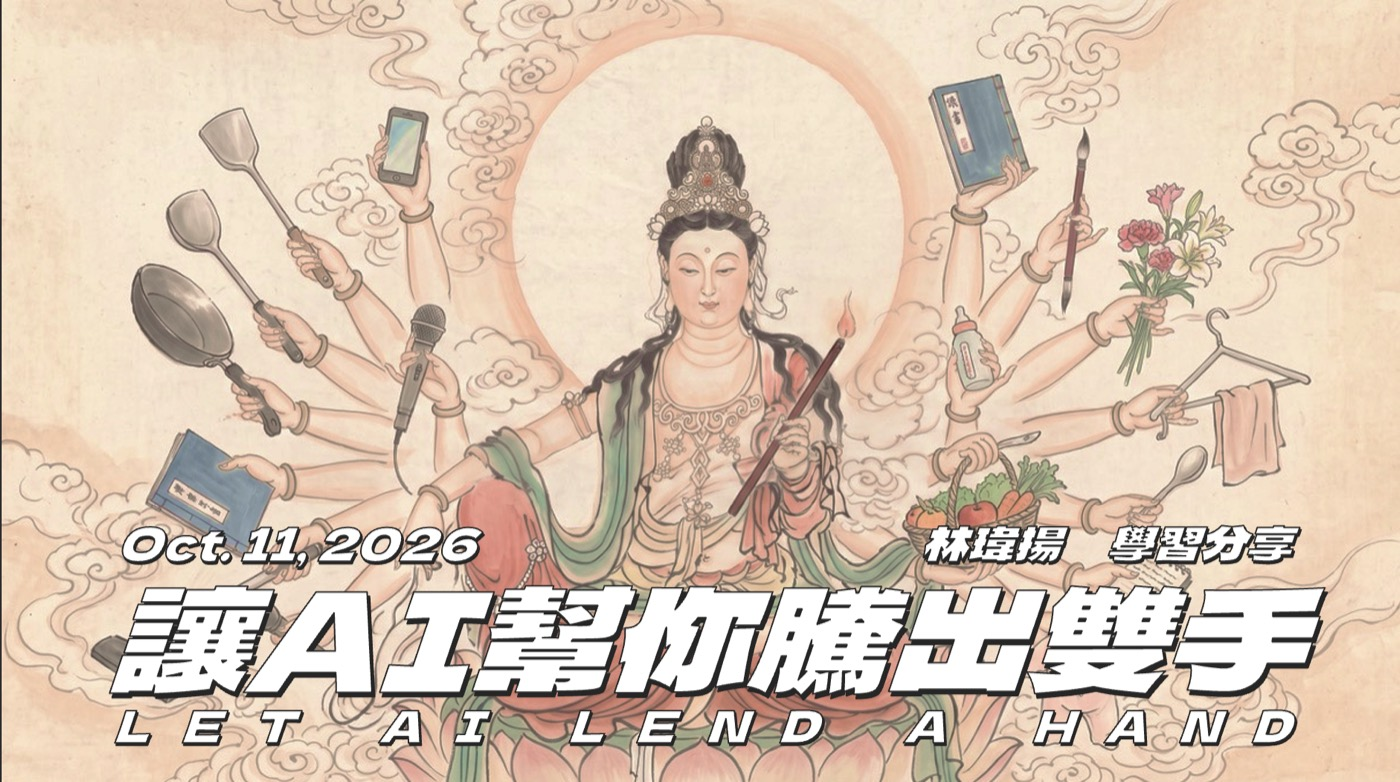
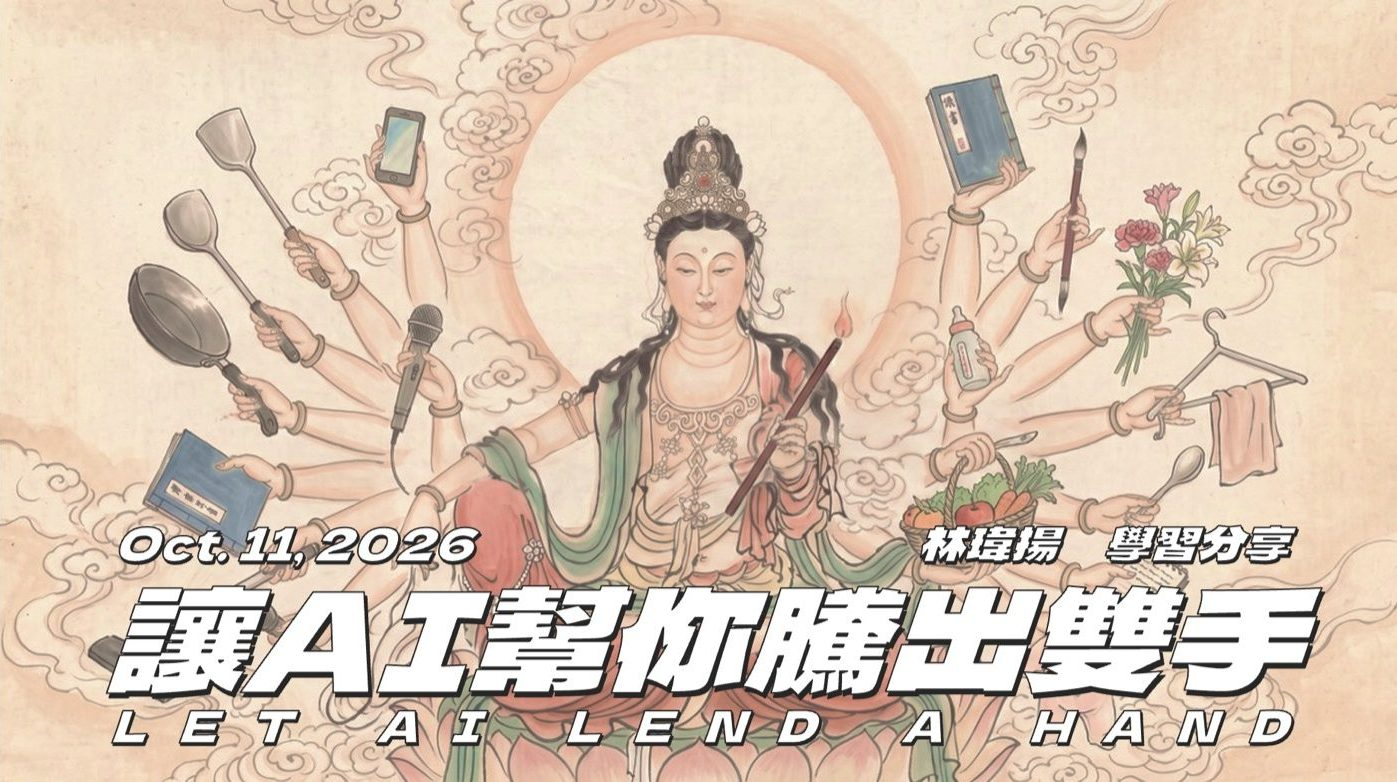
投影頁去掉 header 改深色底(QR 浮動角落)；首頁海報裁掉左側黑邊

diff --git a/index.html b/index.html
@@ -9,7 +9,7 @@
 <link rel="preconnect" href="https://fonts.googleapis.com" />
 <link rel="preconnect" href="https://fonts.gstatic.com" crossorigin />
 <link href="https://fonts.googleapis.com/css2?family=Noto+Sans+TC:wght@400;700;900&family=Roboto+Condensed:ital,wght@0,400;0,700;1,400;1,700&display=swap" rel="stylesheet" />
-<link rel="stylesheet" href="styles.css?v=9" />
+<link rel="stylesheet" href="styles.css?v=10" />
 </head>
 <body>
 
@@ -17,27 +17,16 @@
 
   <!-- ══════════ ① 手機介面（學員） ══════════ -->
   <main id="view-join" hidden>
-    <img class="hero-poster" src="assets/img/hero-poster.jpg?v=9" alt="讓 AI 幫你騰出雙手 · Let AI Lend a Hand（2026/10/11 林瑋揚 學習分享）" />
+    <img class="hero-poster" src="assets/img/hero-poster.jpg?v=10" alt="讓 AI 幫你騰出雙手 · Let AI Lend a Hand（2026/10/11 林瑋揚 學習分享）" />
     <div id="join-body"></div>
   </main>
 
   <!-- ══════════ ② 投影介面（大畫面） ══════════ -->
   <div id="view-screen" hidden>
-    <header class="screen-top">
-      <div class="host-brand">
-        <svg width="54" height="54" viewBox="0 0 120 120" fill="none" aria-hidden="true">
-          <rect x="30" y="26" width="60" height="44" rx="14" fill="#FBF5E8" stroke="#A8803F" stroke-width="3"/>
-          <circle cx="60" cy="46" r="12" fill="#A8803F" stroke="#87682F" stroke-width="3"/><circle cx="60" cy="46" r="4.5" fill="#FBF5E8"/>
-          <line x1="60" y1="26" x2="60" y2="16" stroke="#A8803F" stroke-width="3"/><circle cx="60" cy="14" r="4" fill="#2B2520"/>
-          <rect x="38" y="74" width="44" height="26" rx="9" fill="#FBF5E8" stroke="#A8803F" stroke-width="3"/>
-        </svg>
-        <div class="t"><span id="s-brand-zh" class="title-fx">讓 AI 幫你騰出雙手</span><small id="s-brand-en">Let AI Lend a Hand</small></div>
-      </div>
-      <div class="join-chip" id="s-qrwrap" hidden>
-        <div id="s-qrchip" class="qrchip"></div>
-        <div class="chip-txt"><b>掃碼加入</b><span class="en">Scan to join</span></div>
-      </div>
-    </header>
+    <div class="join-chip" id="s-qrwrap" hidden>
+      <div id="s-qrchip" class="qrchip"></div>
+      <div class="chip-txt"><b>掃碼加入</b><span class="en">Scan to join</span></div>
+    </div>
     <div class="screen-stage" id="s-stage"></div>
     <div class="wall" id="s-wall"></div>
     <div class="qr-overlay" id="s-qr-ov" hidden>
@@ -126,7 +115,7 @@
 <script src="https://www.gstatic.com/firebasejs/10.12.0/firebase-app-compat.js"></script>
 <script src="https://www.gstatic.com/firebasejs/10.12.0/firebase-database-compat.js"></script>
 <script src="https://cdnjs.cloudflare.com/ajax/libs/qrcodejs/1.0.0/qrcode.min.js"></script>
-<script src="firebase-config.js?v=9"></script>
-<script src="app.js?v=9"></script>
+<script src="firebase-config.js?v=10"></script>
+<script src="app.js?v=10"></script>
 </body>
 </html>

diff --git a/app.js b/app.js
@@ -157,8 +157,6 @@
     $("#view-screen").hidden = false; $("#view-host").hidden = true; $("#view-join").hidden = true;
     if (!config) { $("#s-stage").innerHTML = `<div class="idle-stage"><div class="big title-fx outlined">連線中…</div></div>`; return; }
 
-    $("#s-brand-zh").textContent = config.title || "即時回應";
-    $("#s-brand-en").textContent = config.titleEn || "";
     if (!qrChipDone) { makeQR($("#s-qrchip"), 112); qrChipDone = true; }
 
     const idx = activeIdx();
@@ -183,7 +181,7 @@
     if (!slide) { stage.innerHTML = `<div class="idle-stage big-qr"><div class="big title-fx outlined">${esc(config.title || "準備開始")}</div><div class="big-qr-box"><div id="s-bigqr"></div><div class="scan-label"><b>掃碼加入作答</b><span class="en">Scan to join</span></div></div></div>`; makeQR($("#s-bigqr"), 300); return; }
 
     if (slide.type === "cover") {
-      stage.innerHTML = `<div class="slide-cover"><img class="cover-img" src="assets/img/hero-poster.jpg?v=9" alt="讓 AI 幫你騰出雙手"/></div>`;
+      stage.innerHTML = `<div class="slide-cover"><img class="cover-img" src="assets/img/hero-poster.jpg?v=10" alt="讓 AI 幫你騰出雙手"/></div>`;
     } else if (slide.type === "video") {
       stage.innerHTML = `<div class="slide-media">
         ${slide.label ? `<div class="media-cap title-fx outlined">${esc(slide.label)}</div>` : ""}

diff --git a/styles.css b/styles.css
@@ -312,3 +312,10 @@ textarea#ans:focus { border-color: var(--ink); box-shadow: 0 0 0 3px rgba(43,37,
 .now-q.content { border-left-color:var(--ink-soft); }
 .now-badge.alt { background:var(--ink-soft); }
 #h-qctrls[hidden] { display:none; }
+
+/* ══════════ 投影頁：無 header、深色底 ══════════ */
+body.role-screen { background: #17120D; }
+#view-screen { position: relative; }
+#view-screen .screen-stage { padding-top: 40px; }
+#view-screen .join-chip { position: absolute; top: calc(env(safe-area-inset-top, 0px) + 16px); right: 22px; z-index: 10; box-shadow: 0 10px 28px rgba(0,0,0,.45); }
+#view-screen .wall-empty div { color: #D8C9A6 !important; }
